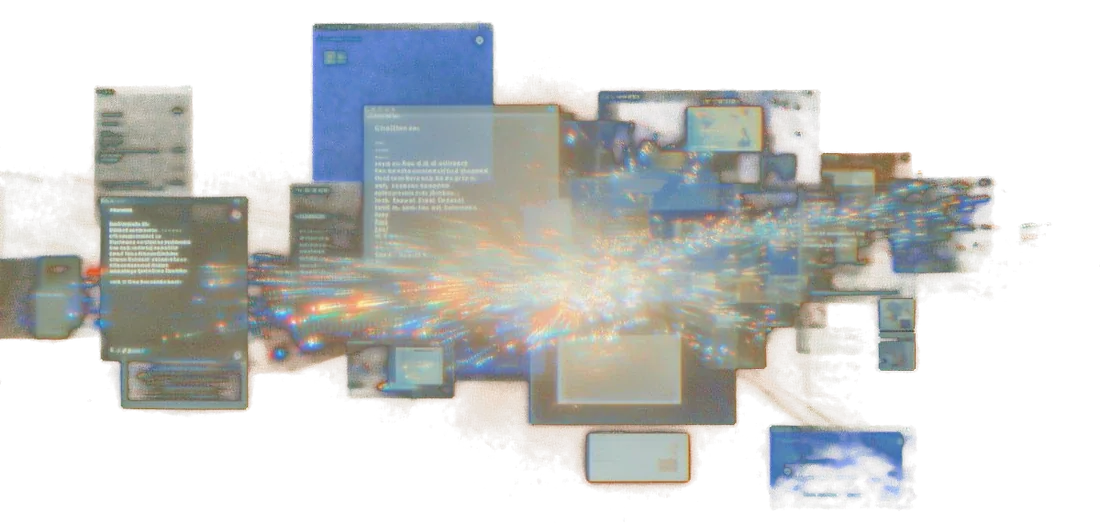
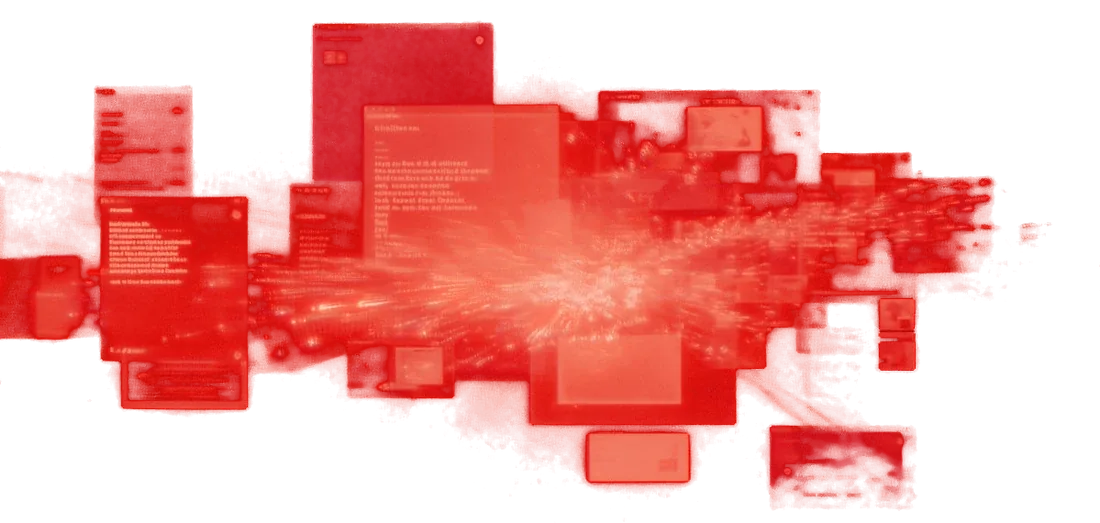
Red header image again, stretched to fill the space above the hero
Restores the red duotone and makes the home-page image wider (up to
660px) and stretched to 2:1 so it fills the band above the intro.

diff --git a/src/index.css b/src/index.css
@@ -122,7 +122,13 @@ html.lenis body {
 }
 
 .header-home .brand {
-  width: clamp(220px, 39vw, 600px);
+  width: clamp(240px, 41vw, 660px);
+}
+
+/* Stretched a little taller than the image's own 2.1:1 to fill the band */
+.header-home .brand img {
+  aspect-ratio: 2 / 1;
+  object-fit: fill;
 }
 
 .main:has(> .hero-x) {
